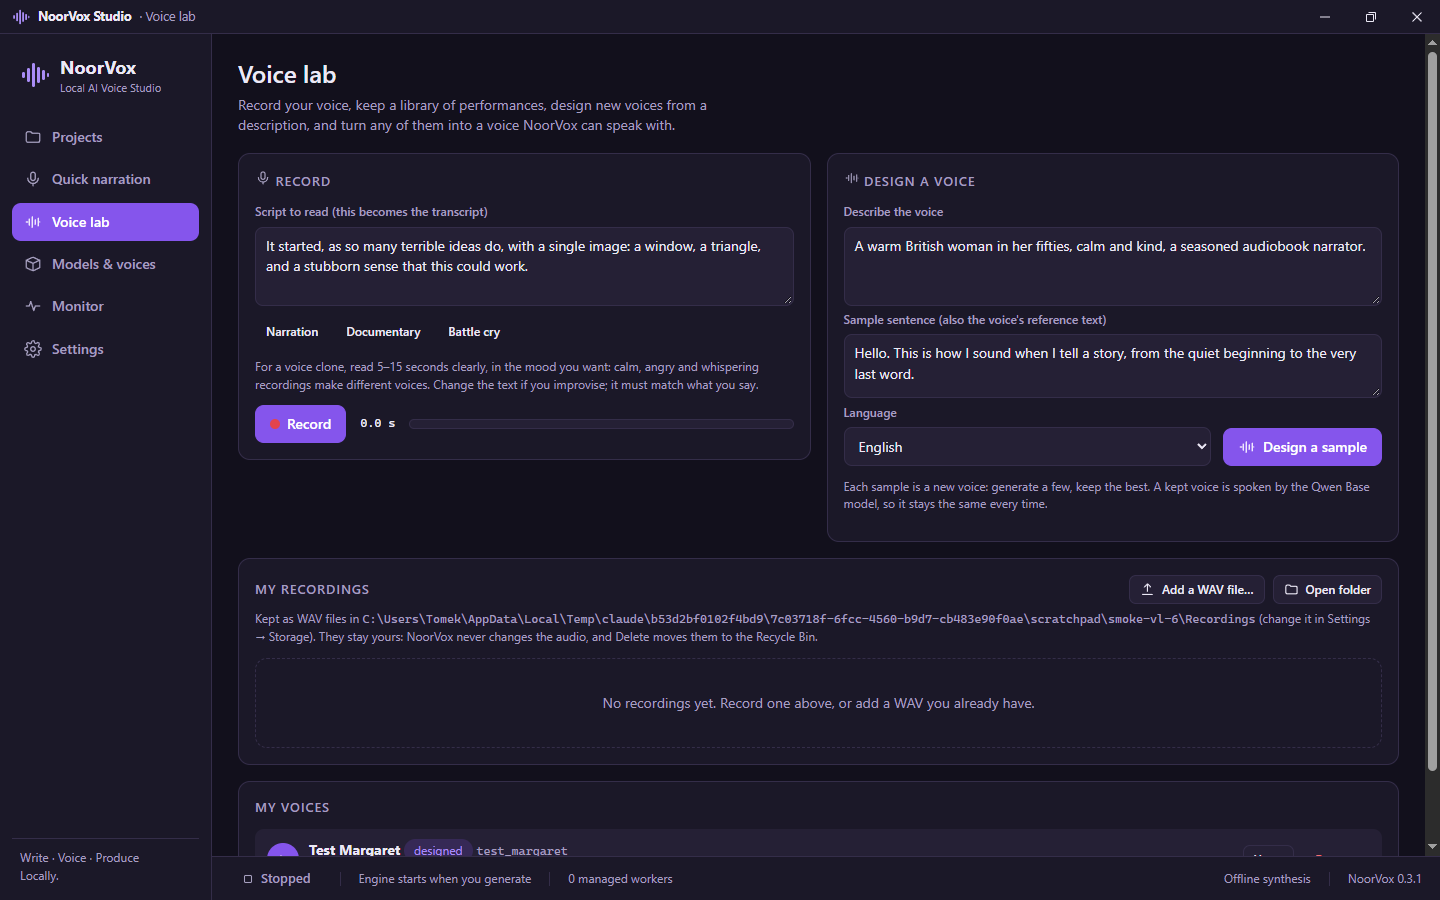
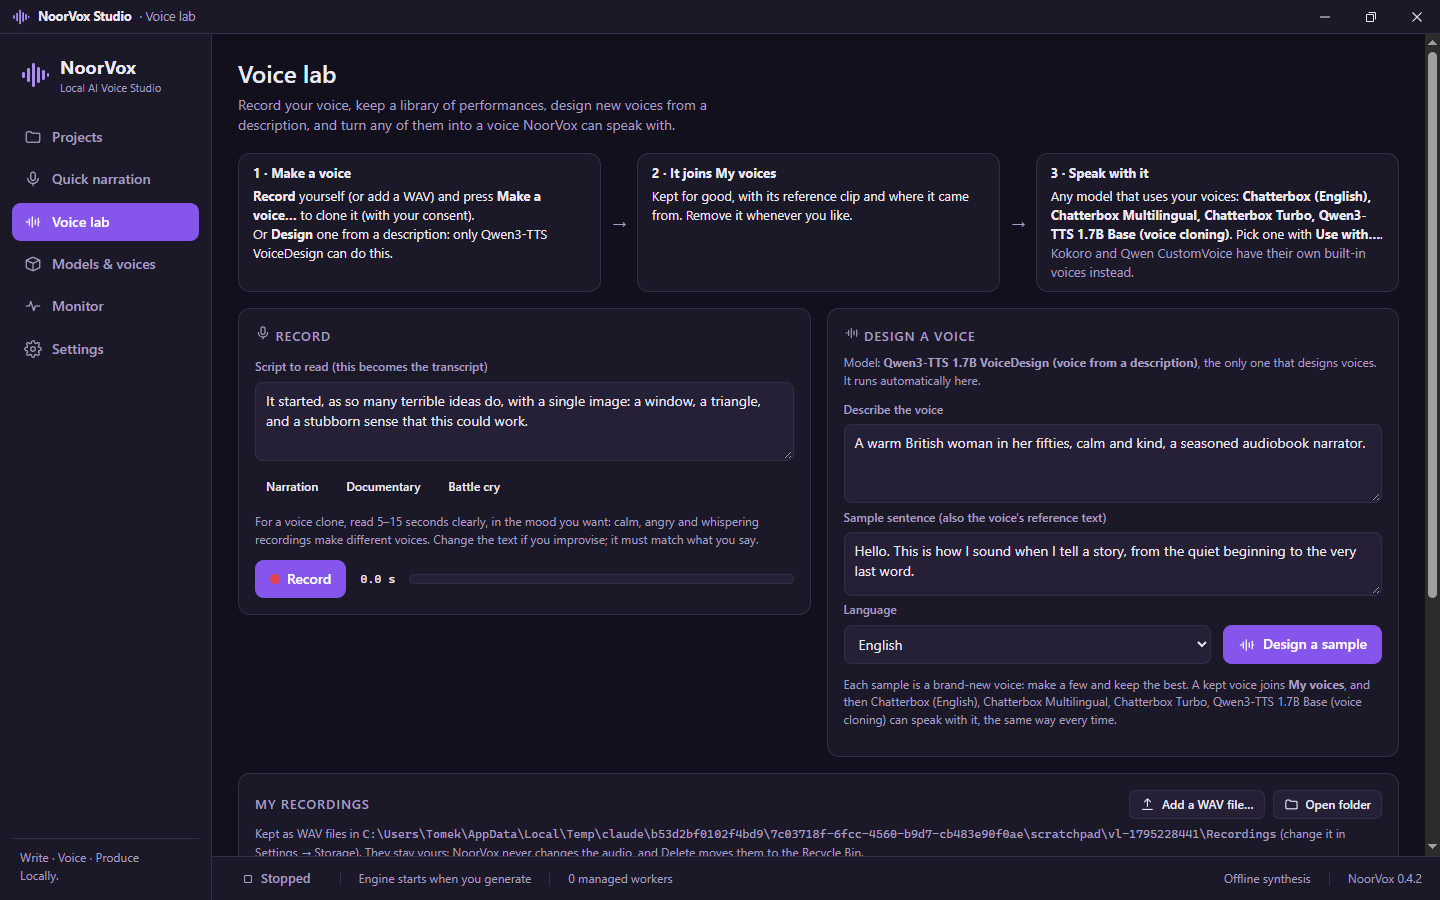
NoorVox 0.4.2: make clear which model does what
- Voice lab: a three-step strip (make a voice -> My voices -> speak with it)
  naming VoiceDesign as the only designer and the installed models that
  speak your voices (Chatterbox, Qwen Base).
- My voices: "Use with..." opens Quick narration with that model and voice.
- Designer names its model; texts that said only Qwen Base speaks your
  voices now list every model that does.
- Quick narration groups models: built-in voices / speaks your voices /
  designs new voices, with a one-line hint.
- Voice lab smoke covers Use with... (12/12 in the real Studio).

Changed region(s): [[0.1562, 0.1867, 1.0, 0.9644]]

diff --git a/src/NoorVox.Studio.Web/src/pages/VoiceLab.tsx b/src/NoorVox.Studio.Web/src/pages/VoiceLab.tsx
@@ -44,6 +44,15 @@ export function VoiceLab() {
   const [removing, setRemoving] = useState<{ kind: "recording"; r: Recording } | { kind: "profile"; p: VoiceProfileView } | null>(null);
   const player = usePlayer();
 
+  /** Opens Quick narration with this model and voice already selected. */
+  const useVoice = (modelRef: string, voiceId: string) => {
+    try {
+      localStorage.setItem("noorvox.quick.model", modelRef);
+      localStorage.setItem(`noorvox.quick.voice.${modelRef}`, voiceId);
+    } catch { /* storage unavailable: the user picks it there */ }
+    go("narrate");
+  };
+
   const load = useCallback(() => {
     call<{ dir: string; recordings: Recording[] }>("recordings.list").then((r) => { setRecordings(r.recordings); setDir(r.dir); }, (e) => notify(errorText(e), true));
     call<ProfilesResponse>("voices.profiles").then(setProfiles, (e) => notify(errorText(e), true));
@@ -69,9 +78,11 @@ export function VoiceLab() {
         </div>
       </div>
 
+      <HowVoicesWork usableWith={profiles?.usableWith ?? null} />
+
       <div className="lab-grid">
         <Recorder onSaved={(r) => { notify(`Saved “${r.name}”.`); load(); }} />
-        <Designer onSaved={() => load()} />
+        <Designer onSaved={() => load()} speakers={profiles?.usableWith ?? []} />
       </div>
 
       <section className="panel" style={{ marginTop: 16 }} aria-label="Recordings">
@@ -97,7 +108,7 @@ export function VoiceLab() {
       <section className="panel" style={{ marginTop: 16 }} aria-label="My voices">
         <h2>My voices</h2>
         {profiles && profiles.usableWith.length === 0 && (
-          <p className="note">Cloned, designed and saved voices are spoken by a Qwen3-TTS <b>Base</b> model, which isn't installed.
+          <p className="note">No installed model can speak your voices yet. Install <b>Chatterbox</b> (any of the three) or <b>Qwen3-TTS Base</b>.
             <button className="btn small" style={{ marginLeft: 8 }} onClick={() => go("models")}><Download size={14} /> Models</button></p>
         )}
         {profiles?.profiles.length === 0 && <div className="empty">No voices yet. Make one from a recording or a design above.</div>}
@@ -116,7 +127,12 @@ export function VoiceLab() {
                 </div>
                 {p.kind === "clone" && <div className="muted small"><Shield size={12} /> {p.consent.statement}</div>}
               </div>
-              <button className="btn small" onClick={() => go("narrate")} title="Pick it in Quick narration with a Qwen Base model">Use…</button>
+              {profiles.usableWith.length > 0 && (
+                <select className="use-with" aria-label={`Use ${p.name} with a model`} value="" onChange={(e) => { if (e.target.value) useVoice(e.target.value, p.voiceId); }}>
+                  <option value="">Use with…</option>
+                  {profiles.usableWith.map((m) => <option key={m.reference} value={m.reference}>{m.displayName}</option>)}
+                </select>
+              )}
               <button className="btn small ghost danger" onClick={() => setRemoving({ kind: "profile", p })}>Remove</button>
             </div>
           ))}
@@ -125,7 +141,7 @@ export function VoiceLab() {
 
       {cloneFrom && profiles && (
         <CloneFromRecording r={cloneFrom} consent={profiles.consentStatements} onClose={() => setCloneFrom(null)}
-          onCreated={(name) => { setCloneFrom(null); notify(`Voice “${name}” is ready in Quick narration (Qwen Base model).`); load(); }} />
+          onCreated={(name) => { setCloneFrom(null); notify(`Voice “${name}” is ready. Use it with any model listed under “Speak with it”.`); load(); }} />
       )}
       {removing && (
         <Confirm title={removing.kind === "recording" ? `Delete “${removing.r.name}”?` : `Remove the voice “${removing.p.name}”?`}
@@ -362,7 +378,7 @@ function CloneFromRecording({ r, consent, onClose, onCreated }: {
 
 interface DesignTake { key: string; description: string; text: string; mediaUrl: string; outputPath: string; seed: number | null; durationMs: number }
 
-function Designer({ onSaved }: { onSaved: () => void }) {
+function Designer({ onSaved, speakers }: { onSaved: () => void; speakers: { reference: string; displayName: string }[] }) {
   const { notify, go, workers } = useStudio();
   const [voices, setVoices] = useState<VoicesResponse | null>(null);
   const [description, setDescription] = useState("A warm British woman in her fifties, calm and kind, a seasoned audiobook narrator.");
@@ -397,8 +413,9 @@ function Designer({ onSaved }: { onSaved: () => void }) {
     return (
       <section className="panel" aria-label="Design a voice">
         <h2><Wave size={16} /> Design a voice</h2>
-        <p className="muted">Describe a voice in words and Qwen3-TTS VoiceDesign creates it. Keep the ones you like as permanent voices.</p>
-        <p className="note">Needs the <b>Qwen3-TTS 1.7B VoiceDesign</b> model (4.5 GB) and an NVIDIA GPU.</p>
+        <p className="muted">Describe a voice in words and a new voice is created from it. Keep the ones you like as permanent voices.</p>
+        <p className="note">Designing needs <b>Qwen3-TTS 1.7B VoiceDesign</b>, the only model that can create a voice from a description
+          (4.5 GB, NVIDIA GPU). It isn't installed.</p>
         <button className="btn primary" onClick={() => go("models")}><Download size={15} /> Install it on the Models page</button>
       </section>
     );
@@ -406,6 +423,7 @@ function Designer({ onSaved }: { onSaved: () => void }) {
   return (
     <section className="panel" aria-label="Design a voice">
       <h2><Wave size={16} /> Design a voice</h2>
+      <p className="muted small" style={{ marginTop: -4 }}>Model: <b>{design?.displayName}</b>, the only one that designs voices. It runs automatically here.</p>
       <label className="field" htmlFor="ds-desc">Describe the voice</label>
       <textarea id="ds-desc" rows={3} maxLength={1000} value={description} onChange={(e) => setDescription(e.target.value)}
         placeholder="Age, gender, accent, timbre, mood, pace… e.g. a gravelly old sea captain, slow and amused" />
@@ -428,7 +446,8 @@ function Designer({ onSaved }: { onSaved: () => void }) {
           {loading && " · the first sample loads the model (a few minutes from a hard drive)"}
         </p>
       )}
-      <p className="muted small">Each sample is a new voice: generate a few, keep the best. A kept voice is spoken by the Qwen Base model, so it stays the same every time.</p>
+      <p className="muted small">Each sample is a brand-new voice: make a few and keep the best. A kept voice joins <b>My voices</b>, and then
+        {speakers.length ? <> {speakers.map((s) => s.displayName).join(", ")} can speak with it,</> : " a Chatterbox or Qwen Base model can speak with it,"} the same way every time.</p>
       <div className="stack" style={{ gap: 6 }}>
         {takes.map((t) => (
           <div key={t.key} className="pack">
@@ -440,7 +459,7 @@ function Designer({ onSaved }: { onSaved: () => void }) {
           </div>
         ))}
       </div>
-      {saving && <KeepVoiceDialog take={saving} onClose={() => setSaving(null)} onSaved={(name) => { setSaving(null); notify(`Voice “${name}” kept. Use it with the Qwen Base model.`); onSaved(); }} />}
+      {saving && <KeepVoiceDialog take={saving} onClose={() => setSaving(null)} onSaved={(name) => { setSaving(null); notify(`Voice “${name}” kept: it's in My voices below.`); onSaved(); }} />}
     </section>
   );
 }
@@ -473,5 +492,32 @@ export function KeepVoiceDialog({ take, onClose, onSaved }: { take: { outputPath
         </div>
       </div>
     </div>
+  );
+}
+
+// ---------------------------------------------------------------- the three steps, in plain words
+
+function HowVoicesWork({ usableWith }: { usableWith: { reference: string; displayName: string }[] | null }) {
+  return (
+    <section className="how" aria-label="How your own voices work">
+      <div className="how-step">
+        <b>1 · Make a voice</b>
+        <span><b>Record</b> yourself (or add a WAV) and press <b>Make a voice…</b> to clone it (with your consent).<br />
+          Or <b>Design</b> one from a description: only Qwen3-TTS VoiceDesign can do this.</span>
+      </div>
+      <div className="how-arrow" aria-hidden="true">→</div>
+      <div className="how-step">
+        <b>2 · It joins My voices</b>
+        <span>Kept for good, with its reference clip and where it came from. Remove it whenever you like.</span>
+      </div>
+      <div className="how-arrow" aria-hidden="true">→</div>
+      <div className="how-step">
+        <b>3 · Speak with it</b>
+        <span>{usableWith === null ? "…" : usableWith.length
+          ? <>Any model that uses your voices: <b>{usableWith.map((m) => m.displayName).join(", ")}</b>. Pick one with <b>Use with…</b>.</>
+          : <>Needs a model that uses your voices (Chatterbox or Qwen3-TTS Base). None is installed yet.</>}
+          <br /><span className="muted">Kokoro and Qwen CustomVoice have their own built-in voices instead.</span></span>
+      </div>
+    </section>
   );
 }

diff --git a/src/NoorVox.Studio.Web/src/pages/Narrate.tsx b/src/NoorVox.Studio.Web/src/pages/Narrate.tsx
@@ -15,7 +15,16 @@ const SPEED_KEY = "noorvox.quick.speed";
 const MODEL_KEY = "noorvox.quick.model";
 const STYLE_KEY = "noorvox.quick.style";
 const LANG_KEY = "noorvox.quick.language";
-const KIND_GROUP: Record<string, string> = { clone: "My cloned voices", designed: "My designed voices", synthetic: "My saved voices", blend: "My blended voices" };
+/** What a model does, from its capabilities: speaks built-in voices, speaks your voices (clones/designed), or designs new ones. */
+type ModelRole = "builtin" | "yours" | "design";
+const roleOf = (c: { design?: boolean; cloning: boolean }): ModelRole => c.design ? "design" : c.cloning ? "yours" : "builtin";
+const MODEL_ROLES: [string, ModelRole][] = [["Built-in voices", "builtin"], ["Speaks your voices (Voice lab)", "yours"], ["Designs new voices", "design"]];
+const ROLE_HINT: Record<ModelRole, string> = {
+  builtin: "Speaks its own ready-made voices.",
+  yours: "Speaks the voices you cloned or designed in the Voice lab (My voices).",
+  design: "Makes a brand-new voice from your description each time. Keep the good ones in the Voice lab.",
+};
+const KIND_GROUP: Record<string, string> ={ clone: "My cloned voices", designed: "My designed voices", synthetic: "My saved voices", blend: "My blended voices" };
 const cap = (s: string) => s ? s[0].toUpperCase() + s.slice(1) : s;
 const load = (k: string) => { try { return localStorage.getItem(k); } catch { return null; } };
 const save = (k: string, v: string) => { try { localStorage.setItem(k, v); } catch { /* storage unavailable */ } };
@@ -261,8 +270,16 @@ export function Narrate() {
             {(voices?.models?.length ?? 0) > 1 && <>
               <label className="field" htmlFor="model">Model</label>
               <select id="model" value={voices?.model ?? ""} onChange={(e) => setModelRef(e.target.value)} disabled={!!busy}>
-                {voices!.models!.map((m) => <option key={m.reference} value={m.reference}>{m.displayName}{m.capabilities.requiresGpu ? " (GPU)" : ""}</option>)}
+                {MODEL_ROLES.map(([label, test]) => {
+                  const ms = voices!.models!.filter((m) => roleOf(m.capabilities) === test);
+                  return ms.length > 0 && (
+                    <optgroup key={label} label={label}>
+                      {ms.map((m) => <option key={m.reference} value={m.reference}>{m.displayName}{m.capabilities.requiresGpu ? " (GPU)" : ""}</option>)}
+                    </optgroup>
+                  );
+                })}
               </select>
+              {caps && <p className="muted small" style={{ margin: "4px 0 0" }}>{ROLE_HINT[roleOf(caps)]}</p>}
             </>}
             <div className="voice-card" style={{ marginTop: 10 }}>
               <Mic size={22} />

diff --git a/src/NoorVox.Studio.Web/src/mock.ts b/src/NoorVox.Studio.Web/src/mock.ts
@@ -96,7 +96,7 @@ export async function mockCall(method: string, p: Record<string, any>): Promise<
       mockRecordings = mockRecordings.filter((r) => r.id !== p.id);
       return { id: p.id, recycled: true };
     case "voices.profiles":
-      return { profiles: mockProfiles, usableWith: [{ reference: "qwen3-tts-1.7b-base@1.0", displayName: "Qwen3-TTS 1.7B Base (voice cloning)" }], consentStatements };
+      return { profiles: mockProfiles, usableWith: [{ reference: "qwen3-tts-1.7b-base@1.0", displayName: "Qwen3-TTS 1.7B Base (voice cloning)" }, { reference: "chatterbox-english@1.0", displayName: "Chatterbox (English)" }, { reference: "chatterbox-turbo@1.0", displayName: "Chatterbox Turbo" }], consentStatements };
     case "voices.cloneFromRecording": case "voices.saveTake": {
       const prof = { voiceId: (p.name as string).toLowerCase().replace(/[^a-z0-9]+/g, "_"), name: p.name, kind: method === "voices.saveTake" ? "designed" : "clone",
         language: "english", gender: "unknown", transcript: "…", referenceDurationMs: 8000,

diff --git a/src/NoorVox.Studio.Web/src/styles.css b/src/NoorVox.Studio.Web/src/styles.css
@@ -313,3 +313,10 @@ table.audit td { padding: 7px 8px; border-top: 1px solid var(--border); vertical
 .chip:hover { border-color: var(--accent); }
 .chip.mood { color: var(--accent-strong); }
 .chip .mono { opacity: .7; margin-left: 4px; font-size: 11px; }
+
+/* 0.4.2: Voice lab "how it works" strip */
+.how { display: grid; grid-template-columns: 1fr auto 1fr auto 1fr; gap: 10px; align-items: stretch; margin-bottom: 16px; }
+.how-step { background: var(--surface); border: 1px solid var(--border); border-radius: 12px; padding: 10px 14px; display: flex; flex-direction: column; gap: 4px; font-size: 13px; line-height: 1.45; }
+.how-arrow { align-self: center; color: var(--text-muted); font-size: 18px; }
+@media (max-width: 1100px) { .how { grid-template-columns: 1fr; } .how-arrow { display: none; } }
+.use-with { width: auto; padding: 4px 8px; font-size: 12.5px; }

diff --git a/docs/USER_GUIDE.md b/docs/USER_GUIDE.md
@@ -116,13 +116,17 @@ Previews are kept in `<Temp>\studio\previews` and removed after 3 days. Export t
 - **My recordings:** your library, kept as WAV + JSON in the Recordings folder (Settings → Storage; the folder button opens it). Click a
   name or transcript to edit it; the audio itself never changes. **Add a WAV file…** copies an existing recording in. **Delete** moves it
   to the Recycle Bin.
-- **Make a voice…** turns a 2–60 s recording into a cloned voice (Qwen Base model). You confirm it's your voice or that you have the
-  speaker's permission. For acting, record the same character in several moods (calm, angry, whispering) and make a voice from each:
-  Qwen copies the delivery as well as the voice.
-- **Design a voice** (needs the Qwen3-TTS 1.7B VoiceDesign model): describe a voice ("a gravelly old sea captain, slow and amused"),
-  press **Design a sample**, and listen. Every sample is a new voice, so make a few and **Keep as voice…** the best one. Kept voices are
-  spoken by the Base model, so they sound the same every time.
-- **My voices:** every cloned, designed and saved voice, with its reference clip, where it came from, and **Remove**.
+- **How it fits together** (the strip at the top of the page): you **make** a voice (clone a recording, or design one from a
+  description), it joins **My voices**, and then any model that speaks your voices uses it: **Chatterbox** (English, Multilingual,
+  Turbo) or **Qwen3-TTS Base**. Kokoro and Qwen CustomVoice only have their own built-in voices.
+- **Make a voice…** turns a 2–60 s recording into a cloned voice. You confirm it's your voice or that you have the speaker's permission.
+  For acting, record the same character in several moods (calm, angry, whispering) and make a voice from each: the models copy the
+  delivery as well as the voice.
+- **Design a voice** uses **Qwen3-TTS 1.7B VoiceDesign**, the only model that creates voices from a description (install it in Models;
+  you don't pick it anywhere, the Voice lab runs it). Describe a voice ("a gravelly old sea captain, slow and amused"), press **Design a
+  sample**, and listen. Every sample is a new voice, so make a few and **Keep as voice…** the best one. Kept voices sound the same every time.
+- **My voices:** every cloned, designed and saved voice, with its reference clip, where it came from, **Use with…** (opens Quick
+  narration with that model and voice already picked) and **Remove**.
 
 Any take in Quick narration that isn't a cloned voice also has **Keep as voice…**.
 

diff --git a/docs/RELEASE_NOTES.md b/docs/RELEASE_NOTES.md
@@ -1,5 +1,14 @@
 # NoorVox release notes
 
+## 0.4.2 — Which model does what
+
+- **Voice lab** opens with a three-step strip: make a voice (clone a recording, or design one with Qwen3-TTS VoiceDesign, the only
+  model that designs), it joins My voices, and the installed models that speak your voices (Chatterbox, Qwen Base) are named.
+- **Use with…** on every voice in My voices opens Quick narration with that model and voice already selected.
+- The Designer names its model, and old texts that said only "Qwen Base" speaks your voices now list every model that does.
+- **Quick narration** groups models by what they do: *Built-in voices* (Kokoro, Qwen CustomVoice), *Speaks your voices* (Qwen Base,
+  Chatterbox), *Designs new voices* (Qwen VoiceDesign), with a one-line hint under the picker.
+
 ## 0.4.1 — Delivery help and a tidier Quick narration
 
 - **Delivery help** under the script shows what the selected model understands, and nothing it doesn't:
